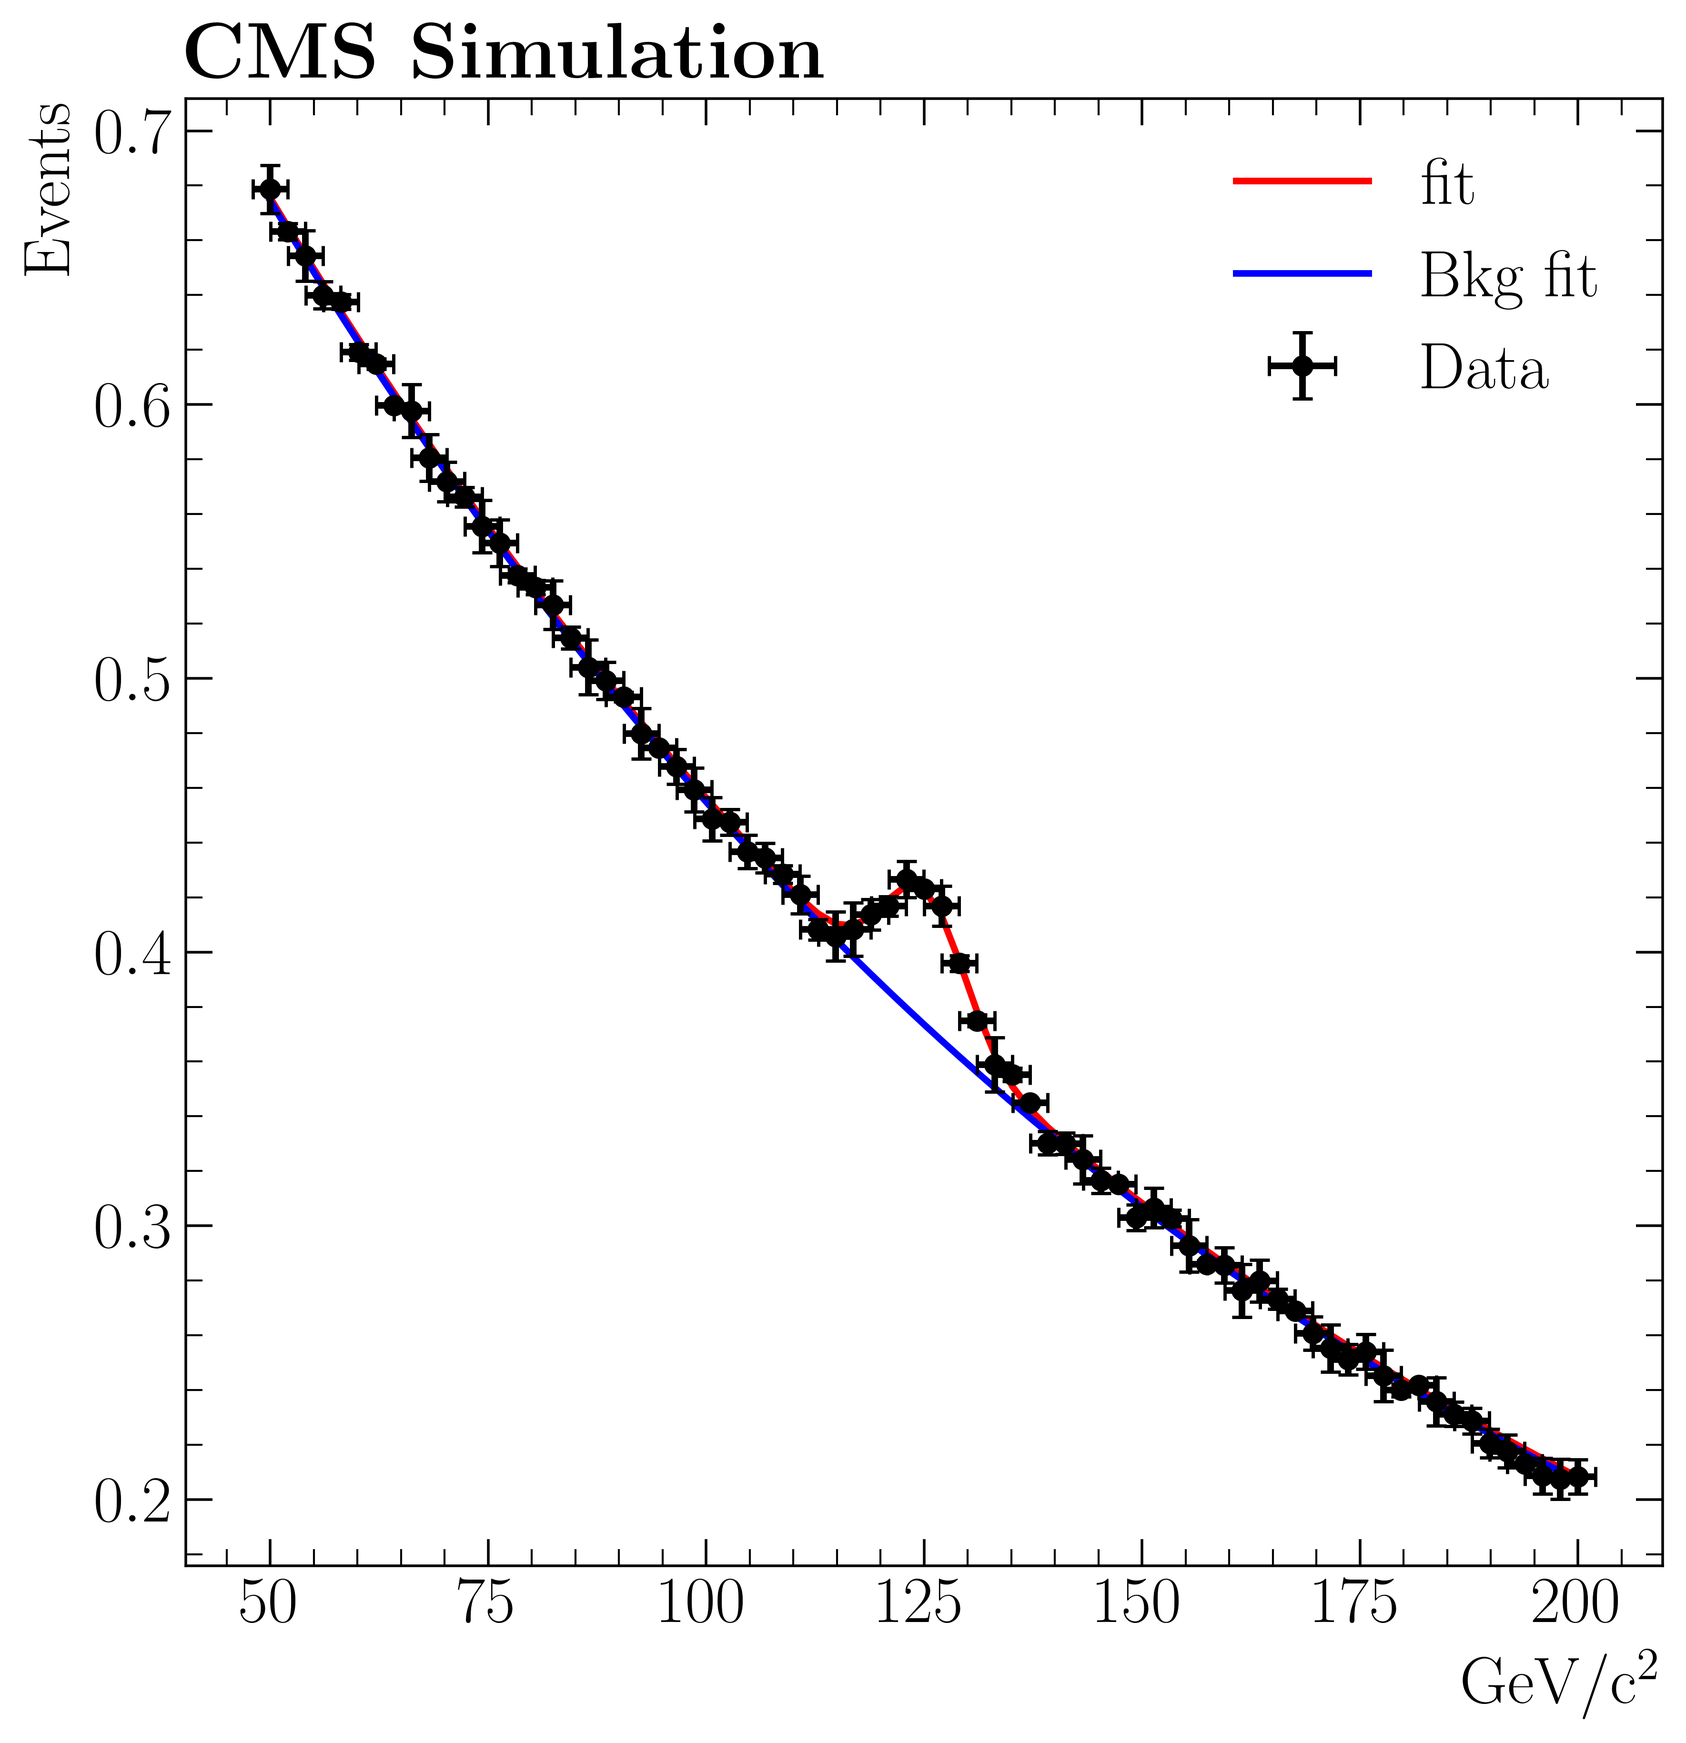
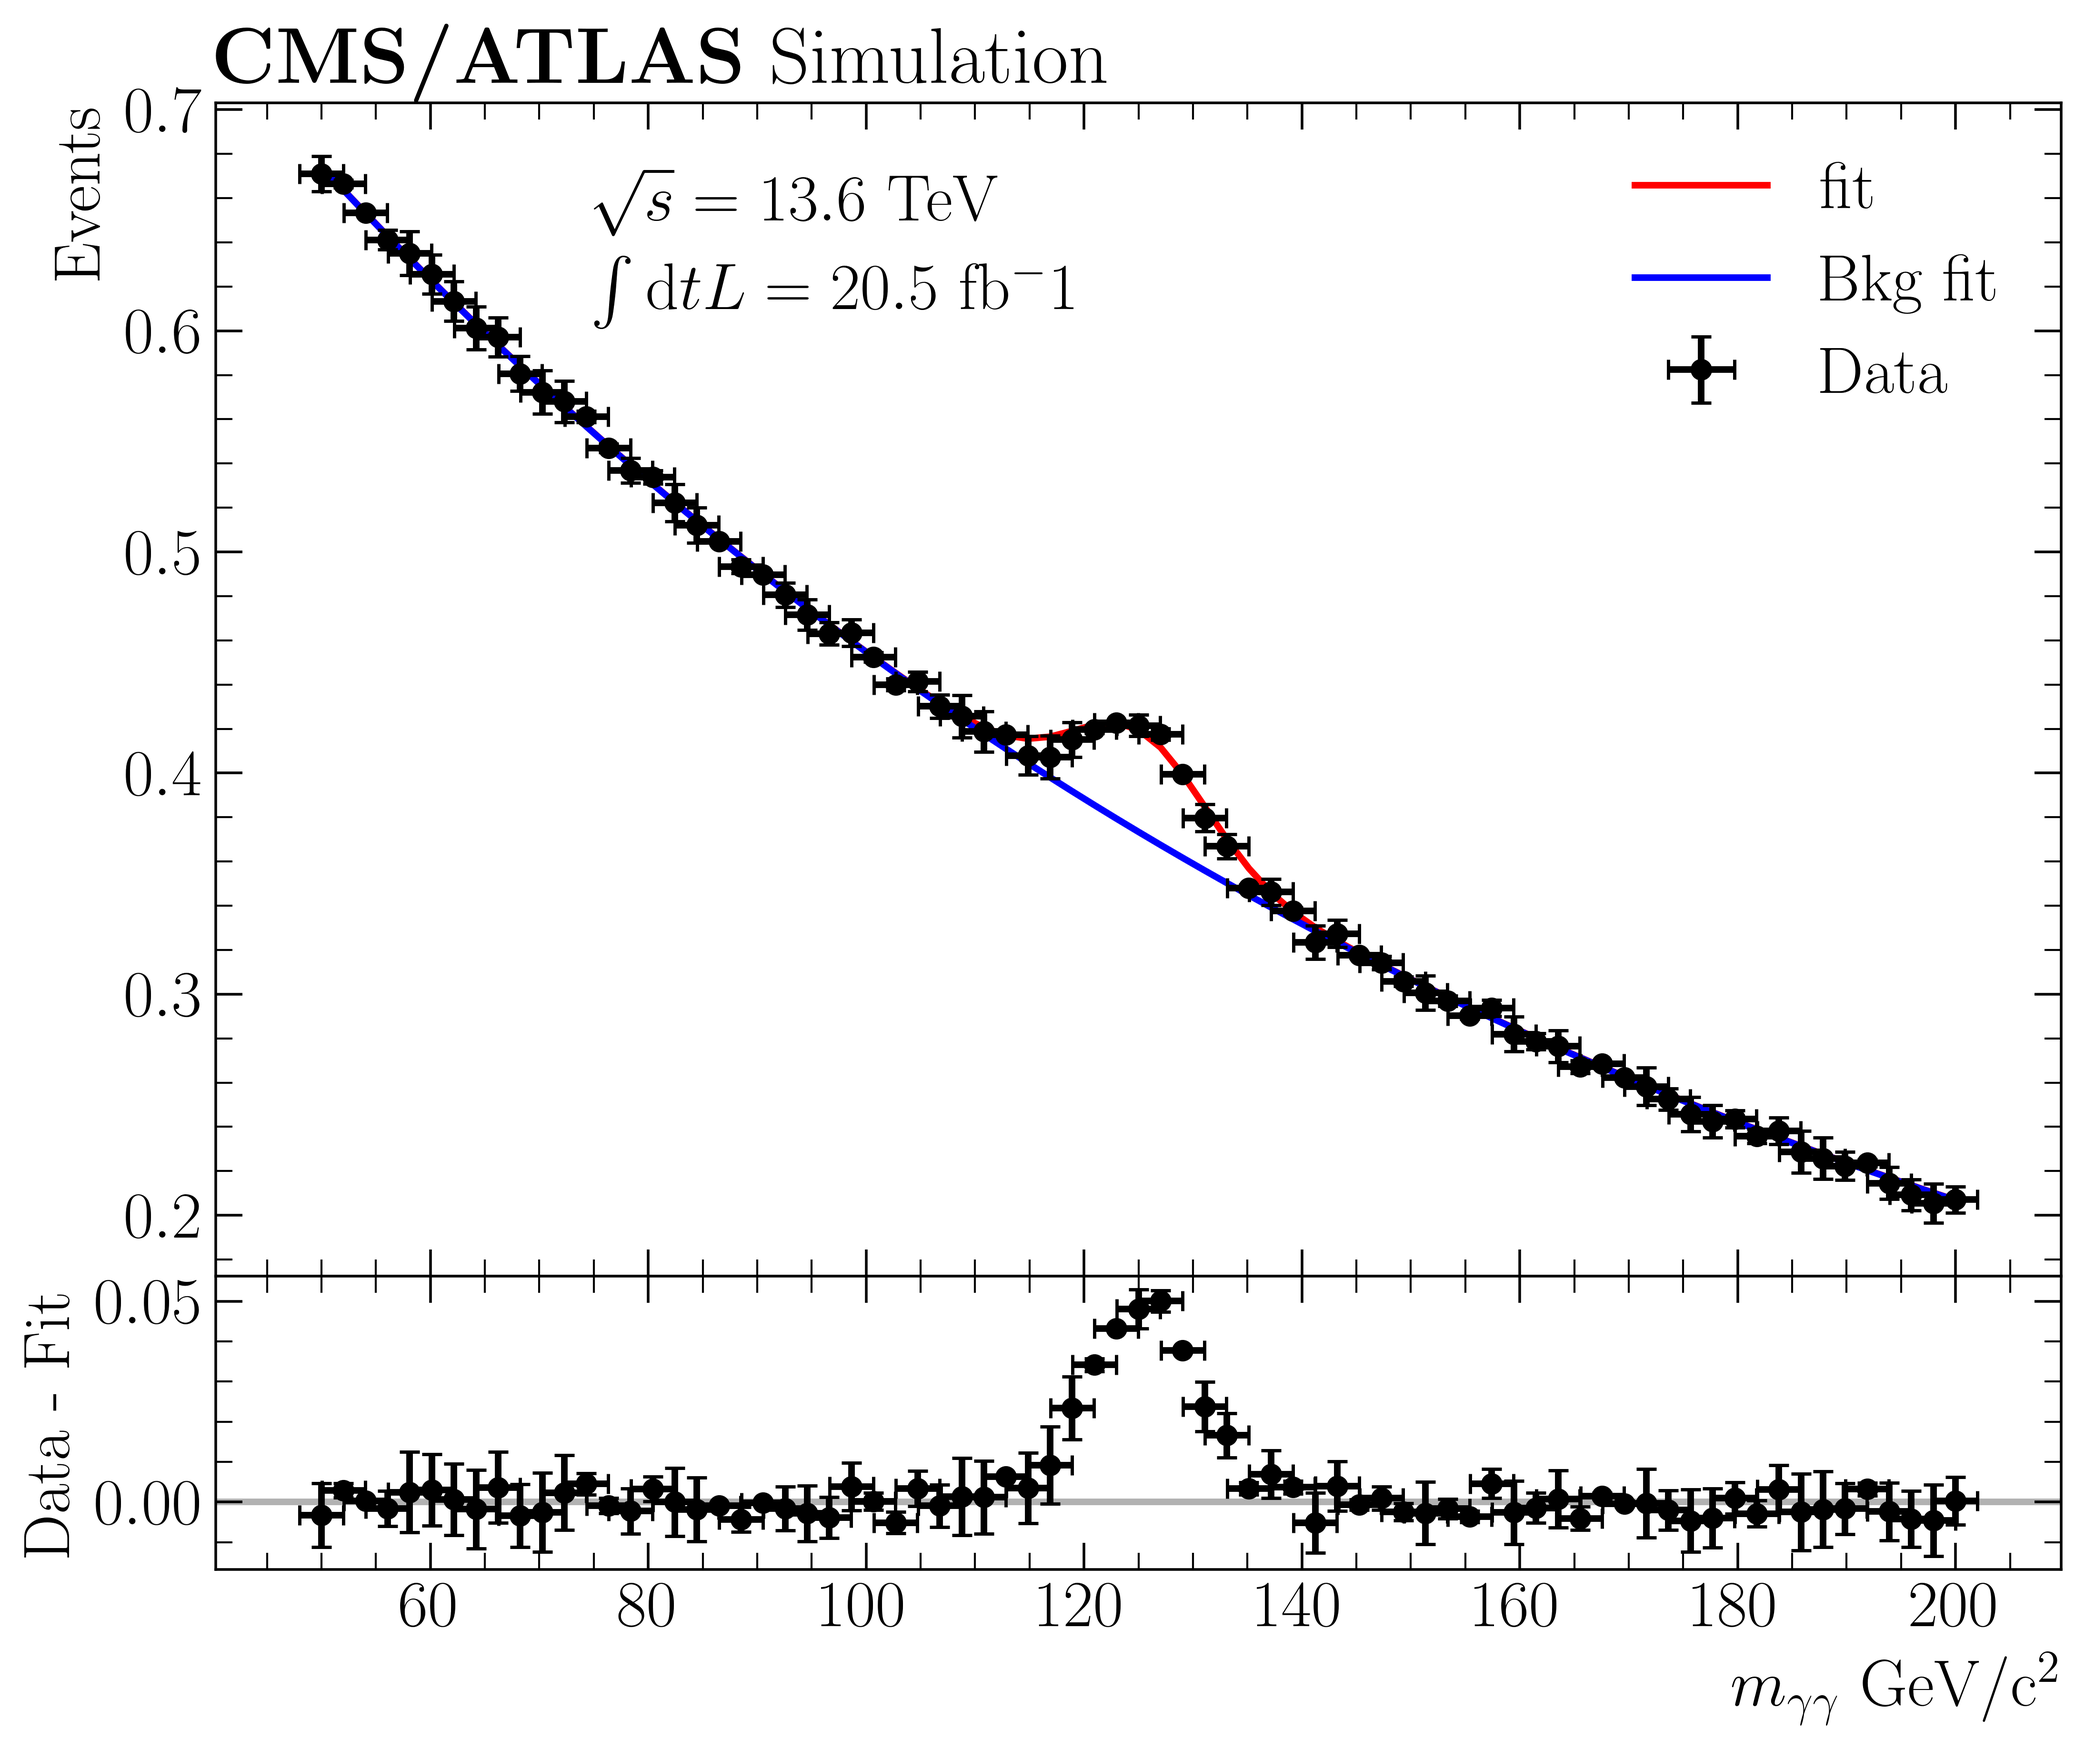
Example update.

diff --git a/Example/example.py b/Example/example.py
@@ -26,13 +26,23 @@ bkg = backgroundSignal(x) + 0.01 * np.random.random(len(x))
 bkgError = 0.01 * np.random.random(len(x))
 
 # Plot Data
+fig, (ax1, ax2) = plt.subplots(2, 1, sharex=True, figsize=(10, 8), gridspec_kw={'height_ratios': [4, 1]})
 popt, pcov = curve_fit(fitFunction, x, y, sigma = yError, p0 = (0.05, 0.008, 125, 50))
-plt.plot(x, fitFunction(x, *popt), color = "red", label = "fit")
-popt, pcov = curve_fit(fitFunctionBackground, x, bkg, sigma = bkgError, p0 = (0.008))
-plt.plot(x, fitFunctionBackground(x, *popt), color = "blue", label = "Bkg fit")
-plt.errorbar(x, y, xerr = binWidth, yerr = yError, marker = "o", ls = "", color =  "black", label = "Data")
-plt.xlabel(r"GeV/c$ ^2$")
-plt.ylabel(r"Events")
-plt.legend()
-plt.title(r"\textbf{CMS Simulation}")
-plt.savefig(os.path.join("Plots", "CMS.png"), dpi = 500)
+ax1.plot(x, fitFunction(x, *popt), color = "red", label = "fit")
+popt2, pcov2 = curve_fit(fitFunctionBackground, x, bkg, sigma = bkgError, p0 = (0.008))
+ax1.plot(x, fitFunctionBackground(x, *popt2), color = "blue", label = "Bkg fit")
+ax1.errorbar(x, y, xerr = binWidth, yerr = yError, marker = "o", ls = "", color =  "black", label = "Data")
+ax2.set_xlabel(r"$m_{\gamma\gamma}$ GeV/c$ ^2$")
+ax1.set_ylabel(r"Events")
+ax1.legend()
+ax1.text(75, 0.65, r"$\sqrt{s} = 13.6$ TeV")
+ax1.text(75, 0.61, r"$\int \text{d}t L = 20.5$ fb$^-1$")
+ax1.set_title(r"\textbf{CMS/ATLAS} Simulation")
+
+ax2.set_ylabel(r"Data - Fit", loc = "center")
+ax2.axhline(y = 0, color = "black", alpha = 0.3)
+ax2.errorbar(x, y - fitFunctionBackground(x, *popt2), xerr = binWidth, yerr = yError, marker = "o", ls = "", color = "black")
+path = os.path.join("Plots")
+plt.subplots_adjust(hspace=0.0)
+if os.path.exists(path):
+        plt.savefig(os.path.join("Plots", "CMS.png"), dpi = 500)
